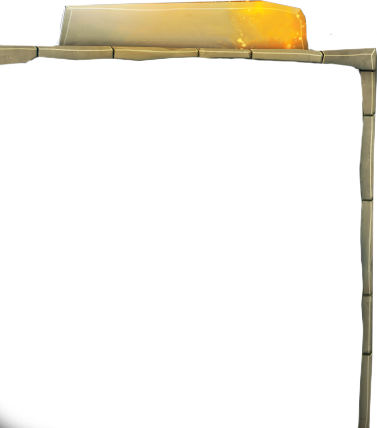
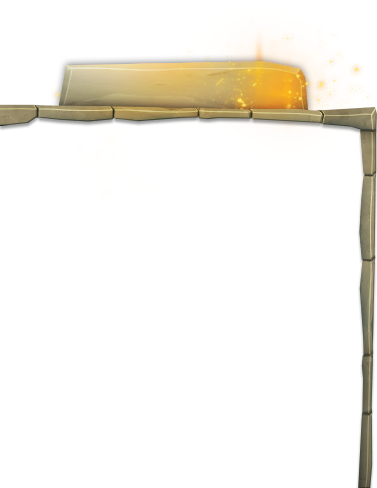
Updated minimap overlay

Changed region(s): [[0.0, 0.0, 1.0, 0.7897], [0.9337, 0.8201, 0.992, 1.0], [0.0, 0.972, 0.0584, 1.0]]

diff --git a/content/panorama/layout/custom_game/common/minimap_overlay/minimap_overlay.css b/content/panorama/layout/custom_game/common/minimap_overlay/minimap_overlay.css
@@ -1,5 +1,5 @@
 #MapOverlayDotaU_Wrap {
-	height: 280px;
+	height: 320px;
 	width: 253px;
 	vertical-align: bottom;
 }
@@ -7,7 +7,7 @@
 	horizontal-align: right;
 }
 .MinimapExtraLarge #MapOverlayDotaU_Wrap {
-	height: 322px;
+	height: 362px;
 	width: 291px;
 }
 
@@ -25,25 +25,26 @@
 
 .overthrow2 #MapOverlayText {
 	align: center top;
-	color: gradient(linear, 0% 0%, 100% 0%, from(#612f0b), to(#a75806));
+	color: gradient(linear, 0% 0%, 120% 0%, from(#612f0b), to(#b46106));
 	font-size: 20px;
 	font-family: titleFont;
 	font-weight: semi-bold;
-	margin-top: 3px;
+	margin-top: 43px;
 	text-shadow: black 0px 0px 1px 1;
 	margin-right: 7px;
 }
 .HUDFlipped .overthrow2 #MapOverlayText {
-	color: gradient(linear, 0% 0%, 100% 0%, from(#a75806), to(#612f0b));
+	color: gradient(linear, 0% 0%, 120% 0%, from(#b46106), to(#612f0b));
 	margin-right: 0px;
+	margin-left: 10px;
 }
 .MinimapExtraLarge .overthrow2 #MapOverlayText {
 	font-size: 22px;
-	margin-top: 3px;
+	margin-top: 48px;
 	margin-right: 10px;
 }
 .HUDFlipped.MinimapExtraLarge .overthrow2 #MapOverlayText {
 	font-size: 22px;
-	margin-top: 3px;
 	margin-right: 0px;
+	margin-left: 10px;
 }
